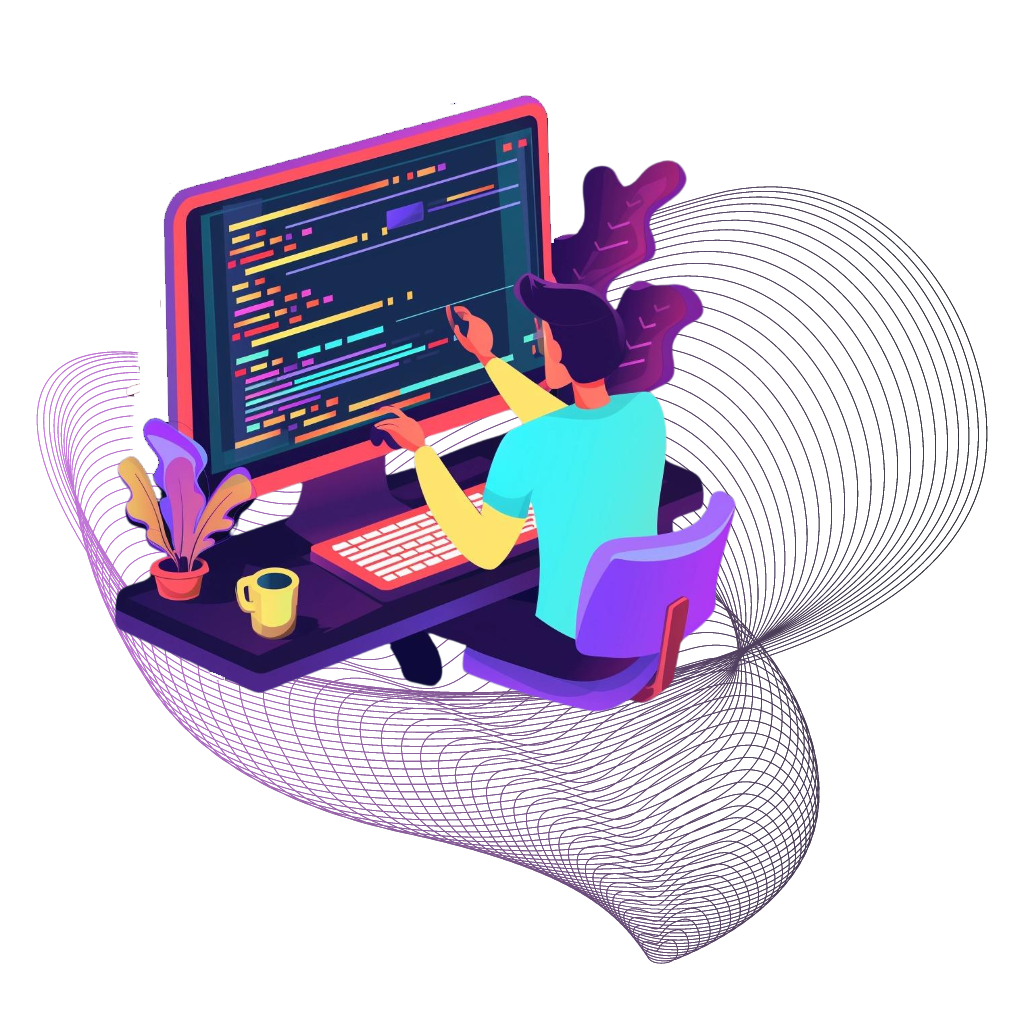
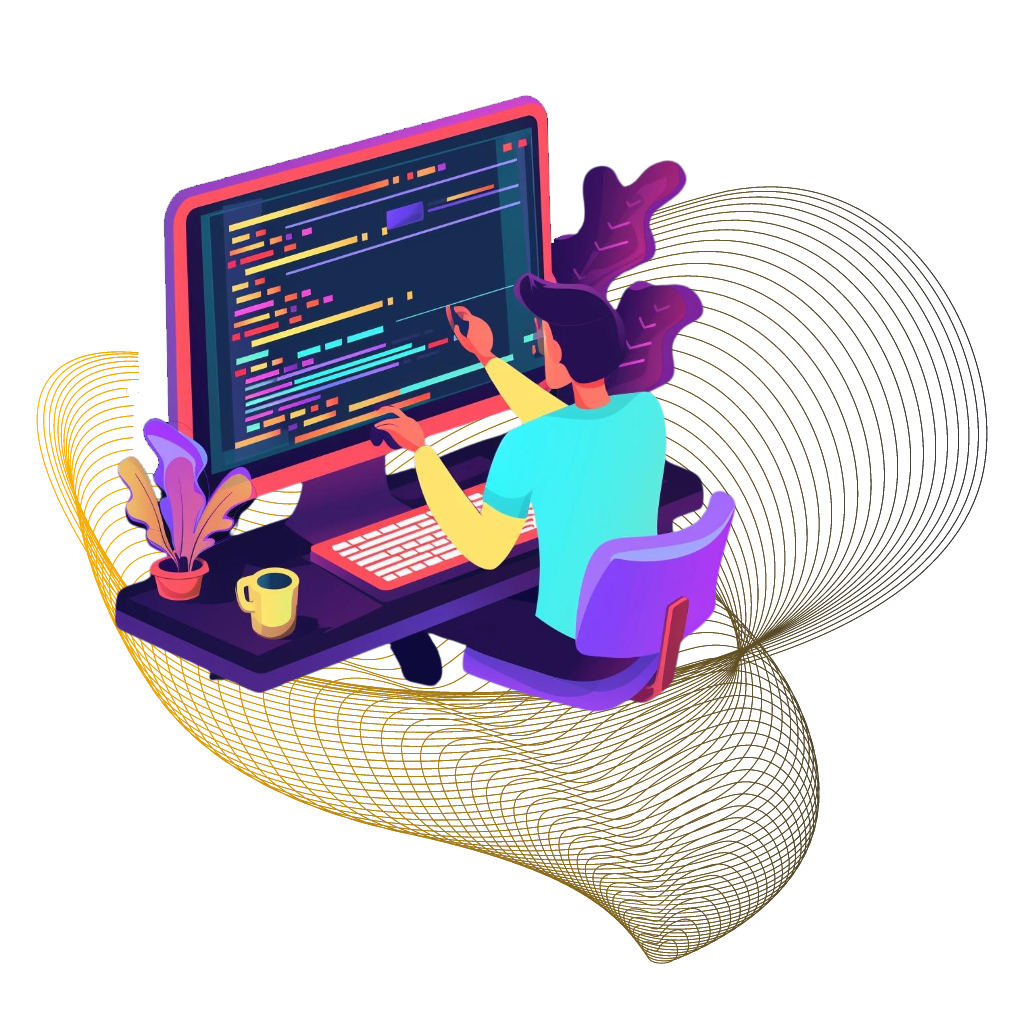
💄: update UI colors

diff --git a/src/app/components/HomePage/ContactSection.tsx b/src/app/components/HomePage/ContactSection.tsx
@@ -4,16 +4,16 @@ import Image from "next/image";
 import EmailIcon from "../Icons/email.svg";
 const ContactSection = () => {
   return (
-    <div className="bg-gray-900 text-dark dark:text-white flex flex-col md:pt-20 px-6 space-y-6 lg:w-3/4 xl:w-full pt-10">
+    <div className="flex flex-col md:pt-20 px-6 space-y-6 lg:w-3/4 xl:w-full pt-10">
       <h2 className="text-xl md:text-2xl font-semibold md:mb-2 lg:w-3/4" id="contact">
         #
-        <strong id="aboutme" className="text-pink btn-shine">
+        <strong id="aboutme" className="text-main btn-shine">
           contact
         </strong>
-        <div className="flex w-3/4 bg-pink dark:bg-pink h-[2px] mt-1"></div>
+        <div className="flex w-3/4 bg-main dark:bg-main h-[2px] mt-1"></div>
       </h2>
       <div className="flex xl:flex-row justify-evenly flex-col space-y-6 xl:space-y-0">
-          <p className="pt-5 lg:w-1/2 w-full 2xl:w-1/2 xl:w-1/2 text-gray text-base">
+          <p className="pt-5 lg:w-1/2 w-full 2xl:w-1/2 xl:w-1/2">
             I am actively seeking a{" "}
             <strong className="underline">long-term</strong>, permanent position. I am
             particularly interested in roles that offer stability and the
@@ -24,34 +24,34 @@ const ContactSection = () => {
         <div className="self-center border border-gray p-4 shadow-md shadow-black">
           <div className="flex flex-col space-y-2">
             <a
-              className="flex flex-row align-middle space-x-4 group w-fit"
+              className="flex flex-row items-center  space-x-4 group w-fit"
               href="mailto:victor.raguin@live.fr"
               target="_blank">
-              <Image src={EmailIcon} alt="Email" width={25} height={25} />
+              <svg xmlns="http://www.w3.org/2000/svg" className=" fill-dark dark:fill-gray group-hover:fill-main duration-300 ease-in-out transition" width="23" height="17" fill="none"><path d="M.072 2.203A2.828 2.828 0 0 1 1.082.618C1.592.218 2.224 0 2.875 0h17.25c.651 0 1.283.218 1.793.618.509.4.865.96 1.01 1.585L11.5 9.086.072 2.203ZM0 3.82v10.064l8.342-5.04L0 3.82Zm9.719 5.855L.275 15.38c.233.485.601.894 1.062 1.18.46.288.993.44 1.538.439h17.25c.544 0 1.078-.152 1.538-.439.46-.287.828-.697 1.061-1.182L13.28 9.674l-1.78 1.073-1.781-1.073v.002Zm4.94-.83L23 13.885V3.82l-8.342 5.023v.002Z"/></svg>
               <p className="group-hover:underline">victor.raguin@live.fr</p>
             </a>
             <a
               href="https://github.com/victorraguin"
-              className="flex flex-row align-middle space-x-4 group w-fit"
+              className="flex flex-row items-center space-x-4 group w-fit"
               target="_blank">
               <svg
                 xmlns="http://www.w3.org/2000/svg"
                 width="24"
                 height="24"
-                className=" fill-dark dark:fill-gray hover:fill-pink duration-300 ease-in-out transition">
+                className=" fill-dark dark:fill-gray group-hover:fill-main duration-300 ease-in-out transition">
                 <path d="M12 0C5.374 0 0 5.373 0 12c0 5.302 3.438 9.8 8.207 11.387.599.111.793-.261.793-.577v-2.234c-3.338.726-4.033-1.416-4.033-1.416-.546-1.387-1.333-1.756-1.333-1.756-1.089-.745.083-.729.083-.729 1.205.084 1.839 1.237 1.839 1.237 1.07 1.834 2.807 1.304 3.492.997.107-.775.418-1.305.762-1.604-2.665-.305-5.467-1.334-5.467-5.931 0-1.311.469-2.381 1.236-3.221-.124-.303-.535-1.524.117-3.176 0 0 1.008-.322 3.301 1.23A11.509 11.509 0 0 1 12 5.803c1.02.005 2.047.138 3.006.404 2.291-1.552 3.297-1.23 3.297-1.23.653 1.653.242 2.874.118 3.176.77.84 1.235 1.911 1.235 3.221 0 4.609-2.807 5.624-5.479 5.921.43.372.823 1.102.823 2.222v3.293c0 .319.192.694.801.576C20.566 21.797 24 17.3 24 12c0-6.627-5.373-12-12-12z" />
               </svg>
               <p className="group-hover:underline">Github Profile</p>
             </a>
             <a
               href="https://www.linkedin.com/in/victor-raguin/"
-              className="flex flex-row align-middle space-x-4 group w-fit"
+              className="flex flex-row items-center space-x-4 group w-fit"
               target="_blank">
               <svg
                 xmlns="http://www.w3.org/2000/svg"
                 width="24"
                 height="24"
-                className=" fill-dark dark:fill-gray hover:fill-pink duration-300 ease-in-out transition">
+                className=" fill-dark dark:fill-gray group-hover:fill-main duration-300 ease-in-out transition">
                 <path d="M19 0H5a5 5 0 0 0-5 5v14a5 5 0 0 0 5 5h14a5 5 0 0 0 5-5V5a5 5 0 0 0-5-5zM8 19H5V8h3v11zM6.5 6.732c-.966 0-1.75-.79-1.75-1.764s.784-1.764 1.75-1.764 1.75.79 1.75 1.764-.783 1.764-1.75 1.764zM20 19h-3v-5.604c0-3.368-4-3.113-4 0V19h-3V8h3v1.765c1.396-2.586 7-2.777 7 2.476V19z" />
               </svg>
               <p className="group-hover:underline">LinkedIn Profile</p>

diff --git a/src/app/components/HomePage/HeroSection.tsx b/src/app/components/HomePage/HeroSection.tsx
@@ -7,10 +7,10 @@ import Link from "next/link";
 const HeroSection = () => {
   return (
     <div>
-      <div className="bg-gray-900 text-dark dark:text-white flex flex-col  md:pt-20 px-6 space-y-6 lg:w-3/4 h-[75vh] lg:h-full">
+      <div className="flex flex-col  md:pt-20 px-6 space-y-6 lg:w-3/4 h-[75vh] lg:h-full">
         <h1 className="text-3xl md:text-5xl font-bold md:mb-2 lg:w-3/4">
           Victor is a{" "}
-          <strong className="text-pink btn-shine underline">
+          <strong className="text-main btn-shine underline">
             front-end <br className="md:hidden" /> developer
           </strong>
         </h1>
@@ -20,16 +20,16 @@ const HeroSection = () => {
         <p className="md:mb-2 text-lg justify-left w-full lg:w-3/4">
           As a front-end developer, I blend technology and creativity to craft
           responsive sites that enchant. Skilled in{" "}
-          <strong className="text-pink underline">HTML5</strong>,{" "}
-          <strong className="text-pink underline">CSS3</strong>, and{" "}
-          <strong className="text-pink underline">JavaScript</strong>, I
-          leverage <strong className="text-pink underline">React</strong> and{" "}
-          <strong className="text-pink underline">NextJS</strong> for immersive,
+          <strong className="text-main underline">HTML5</strong>,{" "}
+          <strong className="text-main underline">JavaScript</strong>, and{" "}
+          <strong className="text-main underline">Tailwind CSS / CSS3</strong>, I leverage{" "}
+          <strong className="text-main underline">React JS</strong> and{" "}
+          <strong className="text-main underline">NextJS</strong> for immersive,
           accessible user experiences, while optimizing for{" "}
-          <strong className="text-pink underline">SEO</strong>. My goal? To
+          <strong className="text-main underline">SEO</strong>. My goal? To
           innovate and captivate.
         </p>
-        <button className="w-fit bg-button border-pink border font-bold py-2 px-4 shadow shadow-gray dark:shadow-black">
+        <button className="w-fit bg-button border-main border font-bold py-2 px-4 shadow shadow-gray dark:shadow-black">
           Contact me!
         </button>
       </div>
@@ -42,23 +42,23 @@ const HeroSection = () => {
           />
         </div>
         <div className="font-semibold flex flex-row justify-center items-center align-middle py-2 px-4 border shadow dark:bg-dark bg-white shadow-gray dark:shadow-black min-w-max lg:w-full 3xl:w-[80%] 4xl:w-[60%]">
-          <div className="bg-pink border border-pink w-[15px] h-[15px] mx-4 "></div>
-          Currently working on <span className="mx-2 text-pink">Portfolio</span>
+          <div className="bg-main border border-main w-[15px] h-[15px] mx-4 "></div>
+          Currently working on <span className="mx-2 text-main">Portfolio</span>
         </div>
       </div>
       <div className="dark:text-white text-dark w-full lg:w-1/2 hidden lg:absolute bottom-28 3xl:bottom-40 5xl:w-1/4 5xl:left-[38%] 5xl:bottom-56 left-[25%] mx-auto shadow-md shadow-gray dark:shadow-black md:flex flex-row items-center justify-center border border-dark dark:border-gray">
-        <span className="text-[3rem] text-pink dark:text-pink self-start relative -top-6 -right-6 bg-white dark:bg-dark">
+        <span className="text-[3rem] text-main dark:text-main self-start relative -top-6 -right-6 bg-white dark:bg-dark">
           “
         </span>
         <div className="flex flex-col w-full justify-center items-center 2xl:w-3/4 ">
           <p className="text-lg">
             First, solve the problem. Then, write the code.
           </p>
-          <span className="text-sm self-end mr-10 text-pink">
+          <span className="text-sm self-end mr-10 text-main">
             — John Johnson
           </span>
         </div>
-        <span className="text-[3rem] relative -top-6 right-6 bg-white dark:bg-dark text-pink dark:text-pink">
+        <span className="text-[3rem] relative -top-6 right-6 bg-white dark:bg-dark text-main dark:text-main">
           “
         </span>
       </div>

diff --git a/src/app/components/HomePage/AboutMeSection.tsx b/src/app/components/HomePage/AboutMeSection.tsx
@@ -4,17 +4,17 @@ import Image from "next/image";
 import VictorFullImg from "../../public/victorraguin.jpg";
 const AboutMeSection = () => {
   return (
-    <div className="bg-gray-900 text-dark dark:text-white flex flex-col md:pt-20 px-6 space-y-6 lg:w-3/4 xl:w-full pt-10">
+    <div className="flex flex-col md:pt-20 px-6 space-y-6 lg:w-3/4 xl:w-full pt-10">
       <h2 className="text-xl md:text-2xl font-semibold md:mb-2 lg:w-3/4">
         #
-        <strong id="aboutme" className="text-pink btn-shine">
+        <strong id="aboutme" className="text-main btn-shine">
           about-me
         </strong>
-        <div className="flex w-3/4 bg-pink dark:bg-pink h-[2px] mt-1"></div>
+        <div className="flex w-3/4 bg-main dark:bg-main h-[2px] mt-1"></div>
       </h2>
       <div className="flex xl:flex-row flex-col-reverse justify-evenly">
-        <div className="flex flex-col pt-5 xl:pt-10 w-full 2xl:w-1/2 xl:w-3/4 text-gray text-base">
-          <strong className="text-xl text-pink underline w-fit">
+        <div className="flex flex-col pt-5 xl:pt-10 w-full 2xl:w-1/2 xl:w-3/4">
+          <strong className="text-xl text-main underline w-fit">
             Hello, I'm Victor!
           </strong>
           <p className="pt-5">
@@ -23,9 +23,9 @@ const AboutMeSection = () => {
             user-fiendly web experiences.
           </p>
           <div className="pt-8 pb-2">
-            <strong className="text-pink text-lg  underline w-fit">Professional Experience</strong>
+            <strong className="text-main text-lg  underline w-fit">Professional Experience</strong>
           </div> 
-          <strong className="text-pink underline w-fit">SKULT <i>(2022/2023)</i></strong>
+          <strong className="text-main underline w-fit">SKULT <i>(2022/2023)</i></strong>
           <ul className="list-disc pl-5">
             <li>
               Main front-end developer for 1.5 years, enhancing my expertise in
@@ -47,7 +47,7 @@ const AboutMeSection = () => {
             </li>
           </ul>
           <div className="pt-4">
-            <strong className="text-pink underline w-fit text-lg">Personal Projects</strong>
+            <strong className="text-main underline w-fit text-lg">Personal Projects</strong>
           </div>
           <ul className="list-disc pl-5">
             <li>
@@ -57,13 +57,13 @@ const AboutMeSection = () => {
             <li >Managed communication and organization of concerts for my music group, Legal Dub Impakt <i>(2023/2024)</i>.</li>
             <li>Developed a cryptocurrency blog and a cryptocurrency airdrop website as a personal project <i>(2018/2019)</i>.</li>
           </ul>
-          <strong className="pt-8 text-pink underline w-fit text-lg">Academic Background</strong>
+          <strong className="pt-8 text-main underline w-fit text-lg">Academic Background</strong>
           <p className="pt-2">
             {" "}
             I completed an formation at{" "}
-            <strong className="text-pink">O'Clock School</strong>, graduating
+            <strong className="text-main">O'Clock School</strong>, graduating
             with a{" "}
-            <strong className="text-pink">
+            <strong className="text-main">
               Bac+2 (equivalent to an associate degree)
             </strong>{" "}
             in full-stack javascript developer, with a specialisation in React JS. This period was pivotal in solidifying my web
@@ -80,7 +80,7 @@ const AboutMeSection = () => {
           <Image
             src={VictorFullImg}
             alt="Victor"
-            className="p-1 rounded-full ring-2 ring-pink  xl:hidden h-20 md:h-40 w-40 bg-cover object-cover"
+            className="p-1 rounded-full ring-2 ring-main  xl:hidden h-20 md:h-40 w-40 bg-cover object-cover"
           />
         </div>
       </div>

diff --git a/src/app/components/Footer/index.tsx b/src/app/components/Footer/index.tsx
@@ -7,18 +7,28 @@ const Footer = () => {
   return (
     <div className="bg-gray-900 text-dark dark:text-white border-t border-gray border-3 mt-10 py-10">
       <div className="flex md:flex-row flex-col justify-center items-center md:justify-evenly">
-      <Link href="/">
-        <h1 className="font-bold text-gray underline text-xl">Victor Raguin</h1>
-      </Link>
-          <p className="text-center text-sm">
-            - Front-end Developer - <br className="md:hidden" />Portfolio by Victor. 2024
-          </p>
-        <div className="flex flex-row space-x-2">
+        <Link href="/">
+          <h1 className="font-bold text-gray underline text-xl">
+            Victor Raguin
+          </h1>
+        </Link>
+        <p className="text-center text-sm">
+          - Front-end Developer - <br className="md:hidden" />
+          Portfolio by Victor. 2024
+        </p>
+        <div className="flex flex-row space-x-2 items-center">
           <a
             className="flex flex-row align-middle space-x-4 group w-fit"
             href="mailto:victor.raguin@live.fr"
             target="_blank">
-            <Image src={EmailIcon} alt="Email" width={25} height={25} />
+            <svg
+              xmlns="http://www.w3.org/2000/svg"
+              className=" fill-dark dark:fill-gray hover:fill-main duration-300 ease-in-out transition"
+              width="23"
+              height="17"
+              fill="none">
+              <path d="M.072 2.203A2.828 2.828 0 0 1 1.082.618C1.592.218 2.224 0 2.875 0h17.25c.651 0 1.283.218 1.793.618.509.4.865.96 1.01 1.585L11.5 9.086.072 2.203ZM0 3.82v10.064l8.342-5.04L0 3.82Zm9.719 5.855L.275 15.38c.233.485.601.894 1.062 1.18.46.288.993.44 1.538.439h17.25c.544 0 1.078-.152 1.538-.439.46-.287.828-.697 1.061-1.182L13.28 9.674l-1.78 1.073-1.781-1.073v.002Zm4.94-.83L23 13.885V3.82l-8.342 5.023v.002Z" />
+            </svg>
           </a>
           <a
             href="https://github.com/victorraguin"
@@ -28,7 +38,7 @@ const Footer = () => {
               xmlns="http://www.w3.org/2000/svg"
               width="24"
               height="24"
-              className=" fill-dark dark:fill-gray hover:fill-pink duration-300 ease-in-out transition">
+              className=" fill-dark dark:fill-gray hover:fill-main duration-300 ease-in-out transition">
               <path d="M12 0C5.374 0 0 5.373 0 12c0 5.302 3.438 9.8 8.207 11.387.599.111.793-.261.793-.577v-2.234c-3.338.726-4.033-1.416-4.033-1.416-.546-1.387-1.333-1.756-1.333-1.756-1.089-.745.083-.729.083-.729 1.205.084 1.839 1.237 1.839 1.237 1.07 1.834 2.807 1.304 3.492.997.107-.775.418-1.305.762-1.604-2.665-.305-5.467-1.334-5.467-5.931 0-1.311.469-2.381 1.236-3.221-.124-.303-.535-1.524.117-3.176 0 0 1.008-.322 3.301 1.23A11.509 11.509 0 0 1 12 5.803c1.02.005 2.047.138 3.006.404 2.291-1.552 3.297-1.23 3.297-1.23.653 1.653.242 2.874.118 3.176.77.84 1.235 1.911 1.235 3.221 0 4.609-2.807 5.624-5.479 5.921.43.372.823 1.102.823 2.222v3.293c0 .319.192.694.801.576C20.566 21.797 24 17.3 24 12c0-6.627-5.373-12-12-12z" />
             </svg>
           </a>
@@ -40,7 +50,7 @@ const Footer = () => {
               xmlns="http://www.w3.org/2000/svg"
               width="24"
               height="24"
-              className=" fill-dark dark:fill-gray hover:fill-pink duration-300 ease-in-out transition">
+              className=" fill-dark dark:fill-gray hover:fill-main duration-300 ease-in-out transition">
               <path d="M19 0H5a5 5 0 0 0-5 5v14a5 5 0 0 0 5 5h14a5 5 0 0 0 5-5V5a5 5 0 0 0-5-5zM8 19H5V8h3v11zM6.5 6.732c-.966 0-1.75-.79-1.75-1.764s.784-1.764 1.75-1.764 1.75.79 1.75 1.764-.783 1.764-1.75 1.764zM20 19h-3v-5.604c0-3.368-4-3.113-4 0V19h-3V8h3v1.765c1.396-2.586 7-2.777 7 2.476V19z" />
             </svg>
           </a>

diff --git a/src/app/components/Socials/index.tsx b/src/app/components/Socials/index.tsx
@@ -13,7 +13,7 @@ const SocialsList = () => {
             xmlns="http://www.w3.org/2000/svg"
             width="24"
             height="24"
-            className=" fill-dark dark:fill-gray hover:fill-pink duration-300 ease-in-out transition">
+            className=" fill-dark dark:fill-gray hover:fill-main duration-300 ease-in-out transition">
             <path d="M12 0C5.374 0 0 5.373 0 12c0 5.302 3.438 9.8 8.207 11.387.599.111.793-.261.793-.577v-2.234c-3.338.726-4.033-1.416-4.033-1.416-.546-1.387-1.333-1.756-1.333-1.756-1.089-.745.083-.729.083-.729 1.205.084 1.839 1.237 1.839 1.237 1.07 1.834 2.807 1.304 3.492.997.107-.775.418-1.305.762-1.604-2.665-.305-5.467-1.334-5.467-5.931 0-1.311.469-2.381 1.236-3.221-.124-.303-.535-1.524.117-3.176 0 0 1.008-.322 3.301 1.23A11.509 11.509 0 0 1 12 5.803c1.02.005 2.047.138 3.006.404 2.291-1.552 3.297-1.23 3.297-1.23.653 1.653.242 2.874.118 3.176.77.84 1.235 1.911 1.235 3.221 0 4.609-2.807 5.624-5.479 5.921.43.372.823 1.102.823 2.222v3.293c0 .319.192.694.801.576C20.566 21.797 24 17.3 24 12c0-6.627-5.373-12-12-12z" />
           </svg>
         </a>
@@ -22,7 +22,7 @@ const SocialsList = () => {
             xmlns="http://www.w3.org/2000/svg"
             width="24"
             height="24"
-            className=" fill-dark dark:fill-gray hover:fill-pink duration-300 ease-in-out transition">
+            className=" fill-dark dark:fill-gray hover:fill-main duration-300 ease-in-out transition">
             <path d="M19 0H5a5 5 0 0 0-5 5v14a5 5 0 0 0 5 5h14a5 5 0 0 0 5-5V5a5 5 0 0 0-5-5zM8 19H5V8h3v11zM6.5 6.732c-.966 0-1.75-.79-1.75-1.764s.784-1.764 1.75-1.764 1.75.79 1.75 1.764-.783 1.764-1.75 1.764zM20 19h-3v-5.604c0-3.368-4-3.113-4 0V19h-3V8h3v1.765c1.396-2.586 7-2.777 7 2.476V19z" />
           </svg>
         </a>

diff --git a/src/app/globals.css b/src/app/globals.css
@@ -11,7 +11,7 @@
 }
 
 .bg-button {
-  --c:  #C778DD;
+  --c:  #ffb400;
   --_g: linear-gradient(var(--c) 0 0) no-repeat;
   background: 
     var(--_g) calc(var(--_p,0%) - 100%) 0%,
@@ -29,7 +29,7 @@
 
 /* Underline CSS Animation */
 .underline {
-	color: #C778DD;
+	color: #ffb400;
   position: relative;
   text-decoration: none;
 }
@@ -40,7 +40,7 @@
   width: 100%;
   height: 2px;
   border-radius: 2px;
-  background-color: #C778DD;
+  background-color: #ffb400;
   bottom: 0;
   left: 0;
   transform-origin: right;
@@ -58,7 +58,7 @@
 .btn-shine {
   transform: translate(-50%, -50%);
   color: #ffffff;
-  background: linear-gradient(to right, #C778DD 0%, white 10%, #C778DD 20%);
+  background: linear-gradient(to right, #ffb400 0%, white 10%, #ffb400 20%);
   background-size: 200% 100%;
   background-position: 0;
   -webkit-background-clip: text;
@@ -90,8 +90,8 @@
   display: block;
   width: 1.5rem;
   height: 1.5rem;
-  border-bottom: 5px solid #C778DD;
-  border-right: 5px solid #C778DD;
+  border-bottom: 5px solid #ffb400;
+  border-right: 5px solid #ffb400;
   transform: rotate(45deg);
   margin: -10px;
   animation: animate 2s infinite;

diff --git a/src/app/components/HomePage/ProjectsSection.tsx b/src/app/components/HomePage/ProjectsSection.tsx
@@ -29,8 +29,8 @@ const ProjectsSection = () => {
         <h2
           id="projects"
           className="text-xl md:text-2xl font-semibold md:mb-2 lg:w-3/4">
-          #<strong className="text-pink btn-shine">projects</strong>
-          <div className="flex w-3/4 bg-pink dark:bg-pink h-[2px] mt-1"></div>
+          #<strong className="text-main btn-shine">projects</strong>
+          <div className="flex w-3/4 bg-main dark:bg-main h-[2px] mt-1"></div>
         </h2>
         <div className="flex flex-row flex-wrap pt-10 justify-around items-center w-full">
           {projects.map((project) => (
@@ -51,7 +51,7 @@ const ProjectsSection = () => {
               <div className="flex flex-col my-4 mx-auto">
                 <Link
                   href={project.link}
-                  className="w-fit bg-button mx-auto border-pink border font-bold py-2 px-4 shadow shadow-gray dark:shadow-black">
+                  className="w-fit bg-button mx-auto border-main border font-bold py-2 px-4 shadow shadow-gray dark:shadow-black">
                   View Project
                 </Link>
               </div>

diff --git a/src/app/components/header/user-actions/ThemeSelector.tsx b/src/app/components/header/user-actions/ThemeSelector.tsx
@@ -37,7 +37,7 @@ const ThemeSelector: React.FC = () => {
         }}
         className={` ${theme === "dark" ? "hidden" : "flex"} items-center`}>
         <svg
-          className="flex-shrink-0 size-4 hover:text-pink dark:hover:text-dark"
+          className="flex-shrink-0 size-4 hover:text-main dark:hover:text-dark"
           xmlns="http://www.w3.org/2000/svg"
           width="24"
           height="24"
@@ -58,7 +58,7 @@ const ThemeSelector: React.FC = () => {
         }}
         className={` ${theme === "dark" ? "flex" : "hidden"} items-center `}>
         <svg
-          className="flex-shrink-0 size-4 hover:text-dark dark:hover:text-white"
+          className="flex-shrink-0 size-4 hover:text-dark dark:hover:text-main"
           xmlns="http://www.w3.org/2000/svg"
           width="24"
           height="24"

diff --git a/src/app/layout.tsx b/src/app/layout.tsx
@@ -45,7 +45,7 @@ export default function RootLayout({
     <html lang="en" className="scroll-smooth">
       <AppTheme>
         <body
-          className={`${firaCode.className} + bg-white dark:bg-dark text-dark dark:text-gray h-screen w-full`}>
+          className={`${firaCode.className} + bg-white dark:bg-dark text-dark dark:text-white h-screen w-full`}>
           <div className="md:flex flex-row justify-center">
             <div className="hidden md:flex w-1/6 md:w-[40%] lg:w-1/6 4xl:w-1/3 5xl:w-1/2 md:justify-center 4xl:justify-end">
               <SocialsList />

diff --git a/src/app/components/header/user-actions/HeaderLinks.tsx b/src/app/components/header/user-actions/HeaderLinks.tsx
@@ -20,8 +20,8 @@ const HeaderLinks: FC<HeaderLinksProps> = ({ value, href }) => {
               route === href
                 ? " dark:text-white cursor-default"
                 : "text-dark dark:text-gray"
-            } dark:hover:text-white `}>
-            <span className="text-pink font-semibold">#</span>
+            } dark:hover:text-white text-lg `}>
+            <span className="text-main font-semibold">#</span>
             {value.slice(1)}
           </span>
         ) : (

diff --git a/tailwind.config.ts b/tailwind.config.ts
@@ -45,7 +45,7 @@ const config: Config = {
       },
     },
     colors: {
-      'pink': '#C778DD',
+      'main': '#ffb400',
       'white': '#FFFFFF',
       'gray': '#ABB2BF',
       'dark' : '#282C33',
